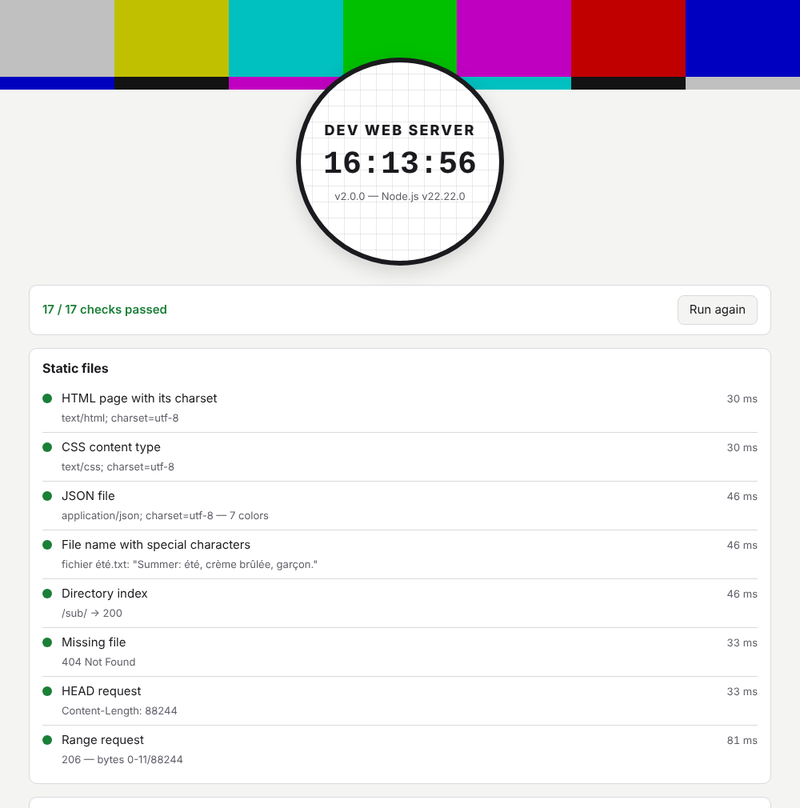
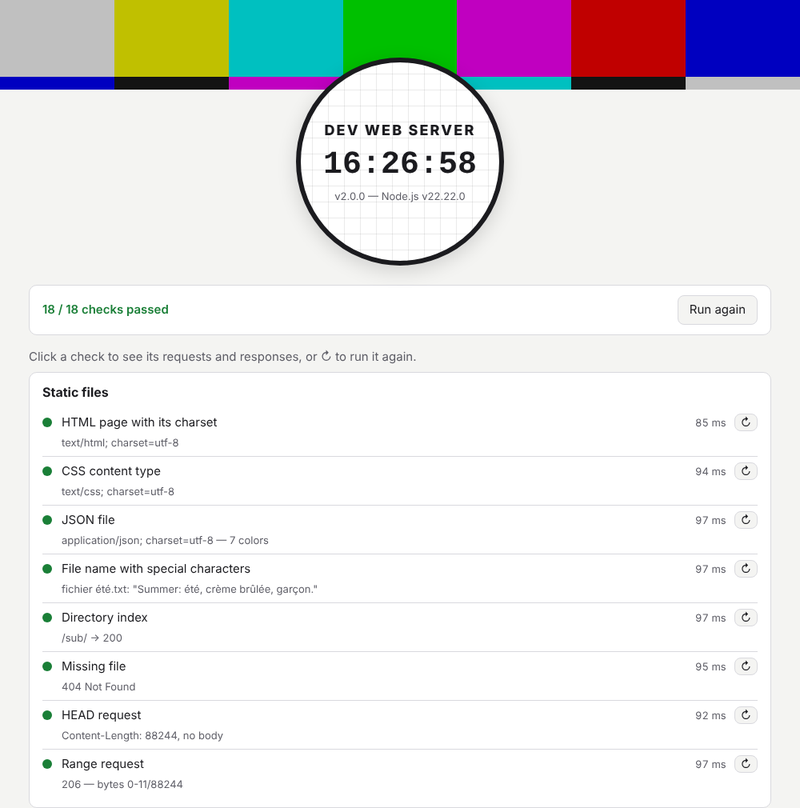
Review the documentation
- the help lists all the parameters (DOMAIN was missing), in the order
  of the readme, with the --help, -h and -? aliases.
- the readme documents the routes, the reload, the streaming, the root
  property of the configuration file and npx, uses portable paths in
  its example, and its example shows a route and a JSON body.
- docs/upgrade-3.md lists what is new in 3.0.
- the test card screenshot is up to date.

diff --git a/web-server/app.js b/web-server/app.js
@@ -24,16 +24,22 @@ console.log();
 if (process.argv.indexOf('HELP') !== -1 || process.argv.indexOf('--help') !== -1
   || process.argv.indexOf('-h') !== -1 || process.argv.indexOf('-?') !== -1) {
   console.log(style(['bold', 'green'], 'Parameters:'));
-  console.log(style(['bold', 'blue'], '  BASEDIR'), style(['italic', 'blue'], '<x>'), ': path to dir containing httpdocs root (default: current dir).');
-  console.log(style(['bold', 'blue'], '  PORT'), style(['italic', 'blue'], '<x>'), ': port of the web server (default: 8080).');
-  console.log(style(['bold', 'blue'], '  ENDPOINTS'), style(['italic', 'blue'], '<x>'), ': relative path to the endpoints definition file.');
-  console.log(style(['bold', 'blue'], '  ENDPOINTSROOT'), style(['italic', 'blue'], '<x>'), ':root url for the endpoints (default: /api).');
-  console.log(style(['bold', 'blue'], '  SPA'), ': single page application mode.');
-  console.log(style(['bold', 'blue'], '  DELAY'), style(['italic', 'blue'], '<x>'), ': delay in ms before response (default: 0).');
-  console.log(style(['bold', 'blue'], '  CORS'), ': add CORS headers.');
-  console.log(style(['bold', 'blue'], '  QUIET'), ': no request logs (the server errors are still displayed).');
-  console.log(style(['bold', 'blue'], '  CACHE'), ': allow browser caching (default: responses are sent with a "Cache-Control: no-cache" header).');
-  console.log(style(['bold', 'blue'], '  HELP'), ': this help message.');
+  const parameters = [
+    ['DOMAIN', true, 'domain of the server (default: localhost).'],
+    ['PORT', true, 'port of the server (default: 8080).'],
+    ['BASEDIR', true, 'path to the website root (default: the launching directory).'],
+    ['DELAY', true, 'delay in ms before each response (default: 0).'],
+    ['ENDPOINTS', true, 'path to the endpoints file (reloaded when it changes).'],
+    ['ENDPOINTSROOT', true, 'root url of the endpoints (default: /api).'],
+    ['SPA', false, 'single page application mode: the missing files are answered with index.html.'],
+    ['CORS', false, 'add the CORS headers.'],
+    ['QUIET', false, 'no request logs (the server errors are still displayed).'],
+    ['CACHE', false, 'allow browser caching (default: responses are sent with a "Cache-Control: no-cache" header).'],
+    ['HELP', false, 'this help message (also --help, -h or -?).'],
+  ];
+  for (const [name, hasValue, description] of parameters) {
+    console.log(' ', style(['bold', 'blue'], name) + (hasValue ? ' ' + style(['italic', 'blue'], '<x>') : ''), ': ' + description);
+  }
 
   console.log() // empty line.
   console.log('You can also use a configuration file. See https://www.npmjs.com/package/dev-web-server for more information.');

diff --git a/readme.md b/readme.md
@@ -18,12 +18,14 @@ You can:
 - choose a port,
 - choose the directory of the *website root*,
 - add a delay before each response,
-- define a set of API endpoints,
+- define a set of API endpoints, with routes like `/users/:id`, reloaded when their file changes,
 - choose the root URL of the API endpoints,
 - activate the SPA mode,
 - activate the CORS headers,
 - allow browser caching (responses are sent with `Cache-Control: no-cache` by default),
 - hide the request logs.
+
+The files are streamed with `Range` support (videos and audio files can be played from any position). A test card shows all of this live: see [Test card](#test-card).
 
 ## Default webpage
 
@@ -37,11 +39,11 @@ The web server supports using `favicon.ico`. It has to be located at the site ro
 
 ## Endpoint verbs
 
-The web server supports all endpoint verbs.
+The endpoints accept all the HTTP verbs: the endpoint function gets the request and chooses its response.
 
 ## SPA mode
 
-In SPA mode, the requests of missing files are answered with your base file (default: `index.html`). This is useful for single page applications without a hash-based routing system.
+In SPA mode, the requests of missing files are answered with your base file (default: `index.html`, see `root` in the configuration file). This is useful for single page applications without a hash-based routing system.
 
 ## Content types
 
@@ -83,6 +85,12 @@ To launch the web server with default parameters:
 dev-web-server
 ```
 
+or, without installing it:
+
+```bash
+npx dev-web-server
+```
+
 With this command, the application creates a web server:
 - at the URL `http://localhost:8080/`,
 - serving the *website root* from the *launching directory*,
@@ -95,31 +103,31 @@ If the server cannot start (e.g. the port is already in use), an error message i
 
 | Parameter   | Description      |
 |------------ | ---------------- |
-| `--help` or `HELP`    |  Display help    |
+| `HELP` (or `--help`, `-h`, `-?`) |  Display the help |
 | `DOMAIN`    |  Domain of the server (default: `localhost`) |
 | `PORT`      |  Port of the server (default: `8080`) |
 | `BASEDIR`   |  *relative* or *absolute* path to the *website root* (default: *launching directory*) |
 | `DELAY`     |  Time delay in milliseconds before each server response (default: `0` ms) |
-| `ENDPOINTS` |  *relative* or *absolute* path to the file that contains API endpoints *(see definition below)* |
+| `ENDPOINTS` |  *relative* or *absolute* path to the file that contains API endpoints *(see definition below)*, reloaded when it changes |
 | `ENDPOINTSROOT` |  Root URL for routing API endpoints (default: `/api`) |
 | `SPA`       |  Activate the SPA mode (default: `false`) |
 | `CORS`      |  Activate the CORS headers in responses |
 | `QUIET`     |  No request logs: only the server errors (`5xx` responses, endpoints file loading) are displayed |
 | `CACHE`     |  Allow browser caching: without it, responses are sent with a `Cache-Control: no-cache` header |
 
-`PORT` has to be an integer between `0` and `65535`, and `DELAY` a positive integer. If a parameter value is missing or invalid, an error message is displayed and the application exits with the code `1`.
+`PORT` has to be an integer between `0` and `65535`, and `DELAY` a positive integer or `0`. If a parameter value is missing or invalid, an error message is displayed and the application exits with the code `1`.
 
 ## Examples
 
 ```bash
-dev-web-server DOMAIN 0.0.0.0 PORT 1234 BASEDIR ..\rep\httpdocs DELAY 2000 ENDPOINTS ..\rep\server\my-endpoints.js ENDPOINTSROOT /my-api
+dev-web-server DOMAIN 0.0.0.0 PORT 1234 BASEDIR ../rep/httpdocs DELAY 2000 ENDPOINTS ../rep/server/my-endpoints.js ENDPOINTSROOT /my-api
 ```
 
 This command launches a web server:
 - listening on all network interfaces (`0.0.0.0`) on port `1234`, e.g. at the URL `http://localhost:1234/`,
-- serving the *website root* from the directory `..\rep\httpdocs\`,
+- serving the *website root* from the directory `../rep/httpdocs/`,
 - with a delay of `2000` ms before each response,
-- with API endpoints defined in the file at path `..\rep\server\my-endpoints.js` accessible at the root URL `/my-api`.
+- with API endpoints defined in the file `../rep/server/my-endpoints.js`, at the root URL `/my-api`.
 
 ## The JSON Configuration File
 
@@ -132,11 +140,12 @@ The JSON configuration file can contain the following properties:
 | Property | Type | Description | Default value |
 | --- | --- | --- | --- |
 | domain | `string` | Domain name of the server | `localhost` |
-| port | `numeric` | Port number of the server | `8080` |
+| port | `number` | Port number of the server | `8080` |
 | baseDir | `string` | *relative* or *absolute* path to the *website root* | *launching directory* |
-| delay | `numeric` | Time delay in milliseconds before each server response | `0` |
+| delay | `number` | Time delay in milliseconds before each server response | `0` |
 | endPointsFilePath | `string` | *relative* or *absolute* path to the file that contains API endpoints *(see definition below)* | `null` |
 | endPointsRoot | `string` | Root URL for routing API endpoints | `/api` |
+| root | `string` | Base file of the website, served for `/`; its name is the index file of the directories, and it answers the missing files in SPA mode | `/index.html` |
 | isSPA | `boolean` | Activate SPA mode | `false` |
 | withCORS | `boolean` | Activate CORS headers in responses | `false` |
 | isQuiet | `boolean` | No request logs: only the server errors are displayed | `false` |
@@ -236,9 +245,23 @@ export default {
 
   },
 
+  '/users/:id': function (req, res, params, sendSuccess, sendError) {
+
+    // GET /api/users/42?fields=name gives req.params = { id: '42' } and params = { fields: 'name', id: '42' }.
+    sendSuccess(req, res, { id: req.params.id, fields: params.fields });
+
+  },
+
+  '/users': function (req, res, params, sendSuccess, sendError) {
+
+    // POST /api/users with the JSON body {"name":"John"} gives req.body = { name: 'John' }.
+    sendSuccess(req, res, { created: req.body });
+
+  },
+
   '/exampleJSONP': function (req, res, params, sendSuccess, sendError) {
 
-    // With '?myCallbackName=myCallback', the response result is: myCallback({"test":"coucou","count":0});
+    // With '?myCallbackName=myCallback', the response result is: myCallback({"test":"coucou","count":<the next count>});
     // HTTP code is 200
     sendSuccess(req, res, {
       test: 'coucou',

diff --git a/docs/upgrade-3.md b/docs/upgrade-3.md
@@ -1,5 +1,18 @@
 # Upgrading from 2.x to 3.0
 
+## What's new
+
+- Routes with parameters in the endpoints file (`/users/:id`).
+- The JSON and form bodies are parsed: `params`, `req.query`, `req.body`, `req.params`.
+- The endpoints file is reloaded when it changes, and can be an ES module.
+- The static files are streamed, with `Range` support (videos and audio files can be played from any position) and `HEAD` requests.
+- The `QUIET` option hides the request logs.
+- The content types include their charset, the CORS preflight requests on static files succeed, and the errors (invalid parameters, port already in use) are reported clearly.
+- `npm start` serves an interactive test card.
+- No dependency left but `mime-types`.
+
+The changes below may need an update of your project.
+
 ## Node.js 22 or later
 
 The 3.0 version requires Node.js 22 or later.

diff --git a/docs/decisions.md b/docs/decisions.md
@@ -104,4 +104,4 @@ This file records the decisions taken on the project, with their context, so tha
 
 ## Pending — Next version number
 
-The ES modules migration and the async `start()` are breaking changes for the code using the internal modules: the next release should be `3.0.0`. The version stays `2.0.0` until the release is decided.
+The merged endpoint parameters (the raw body moves from `params` to `req.body`), the Node.js 22 requirement, the stricter parameter validation, and the ES modules migration with the async `start()` are breaking changes: the next release should be `3.0.0`, with [upgrade-3.md](upgrade-3.md) as the base of its release note. The version stays `2.0.0` until the release is decided.
